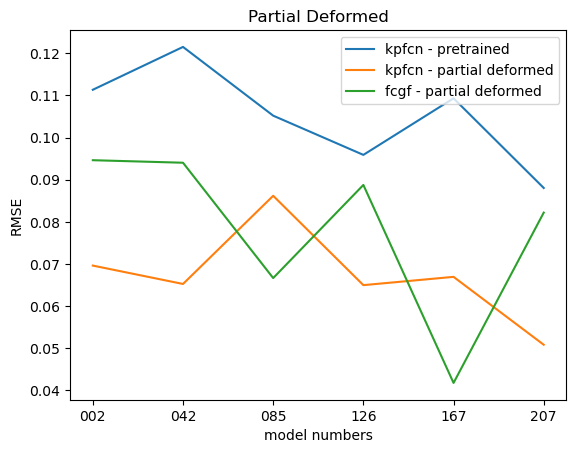
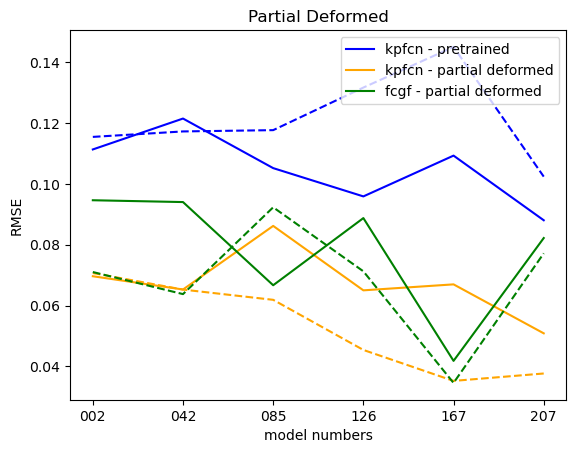
adding the plot for the initial graph

diff --git a/Testing/exterior_boundary_detection/aggregate_data_edge_filtering_rmse_different_weights.py b/Testing/exterior_boundary_detection/aggregate_data_edge_filtering_rmse_different_weights.py
@@ -41,6 +41,7 @@ sub_matrix = {
     'Partial Non Deformed': {weight : copy.deepcopy(sub_sub_matrix) for weight in weights}
 }
 final_matrices = {model : copy.deepcopy(sub_matrix) for model in models}
+final_matrices_initial = {model : copy.deepcopy(sub_matrix) for model in models}
 
 for weights_name in weights:
 
@@ -86,16 +87,95 @@ for weights_name in weights:
         if 'vis-outlier' in line and current_model is not None:
             vis_outlier = list(map(float, re.findall("\d+\.\d+", line)))[0]
             final_matrices[current_model][current_data_type][weights_name]['vis-outlier'] = vis_outlier
+    
+    # For initial
+    file='test_astrivis_partial_deformed_pre_mutual_' + feature_extractor + '_td_' + training_data + '_e_' + epoch + '.txt'    
+    file_txt = open(base + folder + file, 'r')
+    Lines = file_txt.readlines()
+    current_data_type = 'Partial Deformed'
+    current_model = None
+    criterion_val = None
+
+    for line in Lines:
+        if 'model ' in line:
+            current_model = re.findall(r'\b\d+\b',line)[0]
+               
+        if line[:-1] in data_types:
+            current_data_type = line[:-1]
             
+        if 'RMSE' in line and current_model is not None:
+            rmse = list(map(float, re.findall("\d+\.\d+", line)))[0]
+            final_matrices_initial[current_model][current_data_type][weights_name]['rmse'] = rmse
+
+        if 'Strict IR' in line and current_model is not None:
+            strict_ir = list(map(float, re.findall("\d+\.\d+", line)))[0]
+            final_matrices_initial[current_model][current_data_type][weights_name]['strict-ir'] = strict_ir
+
+        if 'Relaxed IR' in line and current_model is not None:
+            relaxed_ir = list(map(float, re.findall("\d+\.\d+", line)))[0]
+            final_matrices_initial[current_model][current_data_type][weights_name]['relaxed-ir'] = relaxed_ir
+            
+        if 'vis-epe' in line and current_model is not None:
+            vis_epe = list(map(float, re.findall("\d+\.\d+", line)))[0]
+            final_matrices_initial[current_model][current_data_type][weights_name]['vis-epe'] = vis_epe
+            
+        if 'vis-outlier' in line and current_model is not None:
+            vis_outlier = list(map(float, re.findall("\d+\.\d+", line)))[0]
+            final_matrices_initial[current_model][current_data_type][weights_name]['vis-outlier'] = vis_outlier
+        
+    file='test_astrivis_partial_deformed_pre_mutual_' + feature_extractor + '_td_' + training_data + '_e_' + epoch + '.txt'
+    file_txt = open(base + folder + file, 'r')
+    Lines = file_txt.readlines()
+    current_data_type = 'Partial Non Deformed'
+    current_model = None
+    criterion_val = None
+
+    for line in Lines:
+        if 'model ' in line:
+            current_model = re.findall(r'\b\d+\b',line)[0]
+               
+        if line[:-1] in data_types:
+            current_data_type = line[:-1]
+            
+        if 'RMSE' in line and current_model is not None:
+            rmse = list(map(float, re.findall("\d+\.\d+", line)))[0]
+            final_matrices_initial[current_model][current_data_type][weights_name]['rmse'] = rmse
+
+        if 'Strict IR' in line and current_model is not None:
+            strict_ir = list(map(float, re.findall("\d+\.\d+", line)))[0]
+            final_matrices_initial[current_model][current_data_type][weights_name]['strict-ir'] = strict_ir
+
+        if 'Relaxed IR' in line and current_model is not None:
+            relaxed_ir = list(map(float, re.findall("\d+\.\d+", line)))[0]
+            final_matrices_initial[current_model][current_data_type][weights_name]['relaxed-ir'] = relaxed_ir
+            
+        if 'vis-epe' in line and current_model is not None:
+            vis_epe = list(map(float, re.findall("\d+\.\d+", line)))[0]
+            final_matrices_initial[current_model][current_data_type][weights_name]['vis-epe'] = vis_epe
+            
+        if 'vis-outlier' in line and current_model is not None:
+            vis_outlier = list(map(float, re.findall("\d+\.\d+", line)))[0]
+            final_matrices_initial[current_model][current_data_type][weights_name]['vis-outlier'] = vis_outlier
+
+colors = ['blue', 'orange', 'green']
+
 for data_type in data_types:
+    
+    color_idx = 0
     plt.clf()
     for weights_name in weights:
         res = []
         for model_number in models:
             res.append(final_matrices[model_number][data_type][weights_name]['rmse'])
-        
-        plt.plot(models, res)
+        plt.plot(models, res, color = colors[color_idx])
+
+        res = []
+        for model_number in models:
+            res.append(final_matrices_initial[model_number][data_type][weights_name]['rmse'])
+        plt.plot(models, res, color = colors[color_idx], linestyle='dashed', label='_nolegend_')
     
+        color_idx += 1
+
     plt.title(data_type)
     plt.ylabel('RMSE')
     plt.xlabel('model numbers')
